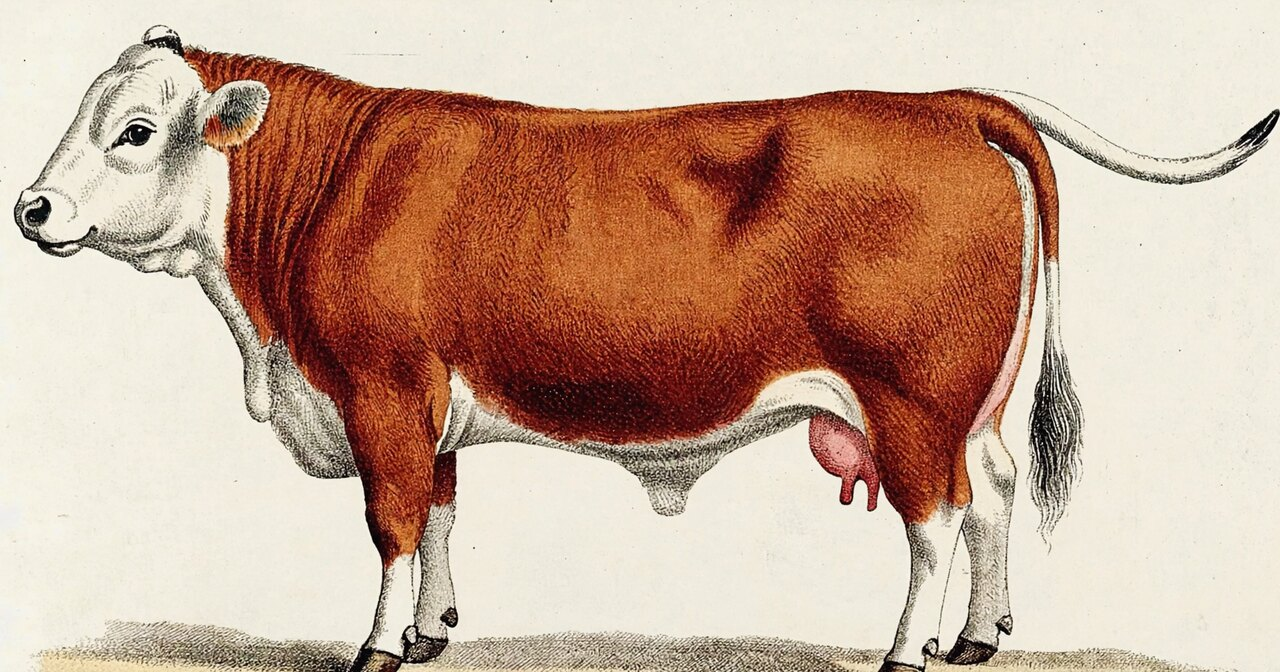
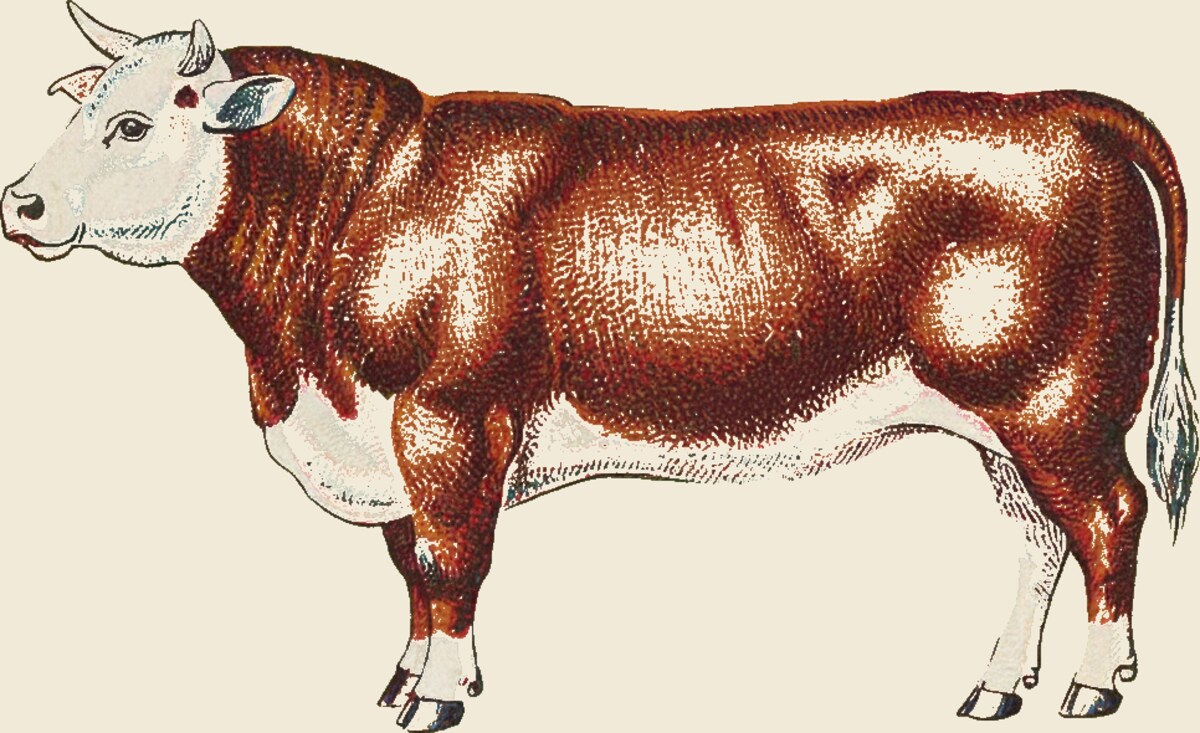
Clean Hereford picker + pixel-accurate zone alignment
Regenerate the picker animal (Gemini edit) so it's anatomically correct —
single tail, no genitalia/udder, no caption. Generated on a green screen,
chroma-keyed to a true silhouette, and the cut zones are now placed from
measured leg/back/belly positions (viewBox 0 0 600 366) so they hug the cow.

diff --git a/wholesome-family-organics/index.html b/wholesome-family-organics/index.html
@@ -491,41 +491,40 @@ section{position:relative}
       <div class="tool" id="tool" hidden>
         <div>
           <div class="diagram">
-            <svg id="cowSvg" viewBox="0 0 600 315" role="group" aria-label="Beef cuts chart — tap a numbered section to choose its cuts">
-              <image href="assets/picker-cow.jpg" x="0" y="0" width="600" height="315" preserveAspectRatio="xMidYMid meet"/>
+            <svg id="cowSvg" viewBox="0 0 600 366" role="group" aria-label="Beef cuts chart — tap a numbered section to choose its cuts">
+              <image href="assets/picker-cow.jpg" x="0" y="0" width="600" height="366" preserveAspectRatio="xMidYMid meet"/>
               <!-- dashed primal dividers -->
               <g stroke="#2A1C10" stroke-width="1.3" stroke-dasharray="3 5" opacity=".5" fill="none" stroke-linecap="round">
-                <path d="M220 15 L218 154"/>
-                <path d="M312 13 L312 152"/>
-                <path d="M382 14 L384 150"/>
-                <path d="M452 16 C462 60 460 110 458 150"/>
-                <path d="M130 156 L500 150"/>
-                <path d="M131 156 L130 205"/>
-                <path d="M322 150 L322 240"/>
-                <path d="M372 150 L370 238"/>
-                <path d="M64 202 L132 200"/>
-                <path d="M370 202 L452 200"/>
+                <path d="M248 46 L248 150"/>
+                <path d="M317 47 L317 148"/>
+                <path d="M379 48 L379 147"/>
+                <path d="M444 50 C450 95 449 125 446 147"/>
+                <path d="M150 150 L490 147"/>
+                <path d="M200 150 L200 248"/>
+                <path d="M348 147 L348 243"/>
+                <path d="M189 248 L237 246"/>
+                <path d="M496 235 L571 235"/>
               </g>
               <!-- clickable region overlays (aligned to the illustration) -->
               <g id="regions">
                 <path class="cut-region" data-region="chuck" tabindex="0" role="button" aria-label="Chuck — front shoulder"
-                      d="M132 40 L220 15 L218 154 L132 158 Z"/>
+                      d="M150 44 L190 32 L248 46 L248 150 L150 154 Z"/>
                 <path class="cut-region" data-region="rib" tabindex="0" role="button" aria-label="Rib"
-                      d="M220 15 L312 13 L312 152 L218 154 Z"/>
+                      d="M248 46 L317 47 L317 148 L248 150 Z"/>
                 <path class="cut-region" data-region="loin" tabindex="0" role="button" aria-label="Loin"
-                      d="M312 13 L382 14 L384 150 L312 152 Z"/>
+                      d="M317 47 L379 48 L379 147 L317 148 Z"/>
                 <path class="cut-region" data-region="sirloin" tabindex="0" role="button" aria-label="Sirloin"
-                      d="M382 14 L452 16 L458 150 L384 150 Z"/>
+                      d="M379 48 L444 50 L446 147 L379 147 Z"/>
                 <path class="cut-region" data-region="round" tabindex="0" role="button" aria-label="Round — hindquarter"
-                      d="M452 16 C490 16 522 30 538 64 C548 96 546 150 532 196 C520 214 505 216 496 210 L458 150 Z"/>
+                      d="M444 50 C476 48 542 54 575 74 C595 94 593 152 580 200 C570 224 540 232 503 230 L446 147 Z"/>
                 <path class="cut-region" data-region="brisket" tabindex="0" role="button" aria-label="Brisket — chest"
-                      d="M66 150 L130 156 L130 205 L70 205 Z"/>
+                      d="M121 150 L196 150 L200 252 L150 256 L123 200 Z"/>
                 <path class="cut-region" data-region="plate" tabindex="0" role="button" aria-label="Plate"
-                      d="M132 156 L320 150 L318 240 L200 248 L136 240 Z"/>
+                      d="M237 150 L348 147 L348 243 L292 250 L240 243 Z"/>
                 <path class="cut-region" data-region="flank" tabindex="0" role="button" aria-label="Flank"
-                      d="M322 150 L372 150 L370 238 L326 240 Z"/>
+                      d="M348 147 L488 148 L486 232 L352 240 Z"/>
                 <path class="cut-region" data-region="shank" tabindex="0" role="button" aria-label="Shank — legs"
-                      d="M64 200 L132 200 L126 312 L70 312 Z M370 200 L452 200 L446 312 L376 312 Z"/>
+                      d="M189 246 L237 246 L233 363 L193 363 Z M496 235 L571 235 L566 360 L500 360 Z"/>
               </g>
               <!-- numbers -->
               <g id="regionLabels"></g>
@@ -625,23 +624,23 @@ section{position:relative}
 
   /* ---------- cut data model (maps to the farm's order form) ---------- */
   var REGIONS = [
-    {id:"chuck", num:1, name:"Chuck", sub:"Front shoulder", center:[176,86], blurb:"The hard-working shoulder — rich, beefy roasts and stewing meat.",
+    {id:"chuck", num:1, name:"Chuck", sub:"Front shoulder", center:[198,96], blurb:"The hard-working shoulder — rich, beefy roasts and stewing meat.",
       cuts:[{id:"chuck_roast",name:"Chuck Roast"},{id:"arm_roast",name:"Arm Roast"},{id:"seven_bone",name:"7-Bone Roast"},{id:"shoulder_steak",name:"Shoulder Steak"},{id:"stew",name:"Stew Meat",lbs:true}]},
-    {id:"rib", num:2, name:"Rib", sub:"Fore-rib", center:[265,82], blurb:"The tender rib section — home of the rib-eye and prime rib.",
+    {id:"rib", num:2, name:"Rib", sub:"Fore-rib", center:[282,95], blurb:"The tender rib section — home of the rib-eye and prime rib.",
       cuts:[{id:"ribeye",name:"Rib-eye Steak"},{id:"ribeye_roast",name:"Rib-eye Roast (Prime Rib)"},{id:"rib_steak",name:"Rib Steak"},{id:"back_ribs",name:"Back Ribs"}]},
-    {id:"loin", num:3, name:"Loin", sub:"Short loin", center:[348,80], blurb:"The most tender part of the animal — the premium steaks.",
+    {id:"loin", num:3, name:"Loin", sub:"Short loin", center:[348,95], blurb:"The most tender part of the animal — the premium steaks.",
       cuts:[{id:"tbone",name:"T-Bone Steak"},{id:"porterhouse",name:"Porterhouse"},{id:"strip",name:"NY Strip Steak"},{id:"filet",name:"Filet Mignon"}]},
-    {id:"sirloin", num:4, name:"Sirloin", sub:"Upper hip", center:[418,84], blurb:"Lean, flavorful steaks just ahead of the hindquarter.",
+    {id:"sirloin", num:4, name:"Sirloin", sub:"Upper hip", center:[412,96], blurb:"Lean, flavorful steaks just ahead of the hindquarter.",
       cuts:[{id:"top_sirloin",name:"Top Sirloin Steak"},{id:"tritip",name:"Tri-Tip"},{id:"petite_sirloin",name:"Petite Sirloin"}]},
-    {id:"round", num:5, name:"Round", sub:"Hindquarter", center:[495,98], blurb:"Lean rear muscle — great for roasts and lean steaks.",
+    {id:"round", num:5, name:"Round", sub:"Hindquarter", center:[512,120], blurb:"Lean rear muscle — great for roasts and lean steaks.",
       cuts:[{id:"rump_roast",name:"Rump Roast"},{id:"top_round",name:"Top Round"},{id:"bottom_round",name:"Bottom Round"},{id:"eye_round",name:"Eye of Round"},{id:"tip_steak",name:"Sirloin Tip Steak"},{id:"cube_steak",name:"Cube Steak"}]},
-    {id:"brisket", num:6, name:"Brisket", sub:"Chest", center:[99,180], blurb:"Lower chest — the low-and-slow favorite.",
+    {id:"brisket", num:6, name:"Brisket", sub:"Chest", center:[160,205], blurb:"Lower chest — the low-and-slow favorite.",
       cuts:[{id:"brisket",name:"Brisket"}]},
-    {id:"plate", num:7, name:"Plate", sub:"Lower mid-belly", center:[224,198], blurb:"The belly — short ribs and skirt steak.",
+    {id:"plate", num:7, name:"Plate", sub:"Lower mid-belly", center:[293,197], blurb:"The belly — short ribs and skirt steak.",
       cuts:[{id:"short_ribs",name:"Short Ribs"},{id:"skirt",name:"Skirt Steak"}]},
-    {id:"flank", num:8, name:"Flank", sub:"Lower rear belly", center:[347,193], blurb:"Lean, richly flavored — flank steak and stir-fry strips.",
+    {id:"flank", num:8, name:"Flank", sub:"Lower rear belly", center:[416,193], blurb:"Lean, richly flavored — flank steak and stir-fry strips.",
       cuts:[{id:"flank_steak",name:"Flank Steak"},{id:"stir_strips",name:"Stir-Fry Strips"}]},
-    {id:"shank", num:9, name:"Shank", sub:"Legs", center:[98,252], blurb:"From the legs — rich, marrow-filled soup bones and cross-cuts.",
+    {id:"shank", num:9, name:"Shank", sub:"Legs", center:[213,305], blurb:"From the legs — rich, marrow-filled soup bones and cross-cuts.",
       cuts:[{id:"soup_bones",name:"Soup Bones"},{id:"shank_cross",name:"Shank Cross-cut (Osso Buco)"}]},
     {id:"specialty", num:null, name:"Specialty", sub:"Organ meats & extras", center:null, blurb:"Traditional, nutrient-dense extras. All optional.",
       cuts:[{id:"liver",name:"Liver"},{id:"heart",name:"Heart"},{id:"tongue",name:"Tongue"},{id:"oxtail",name:"Ox-tail"},{id:"tallow",name:"Tallow (rendering fat)"}]},